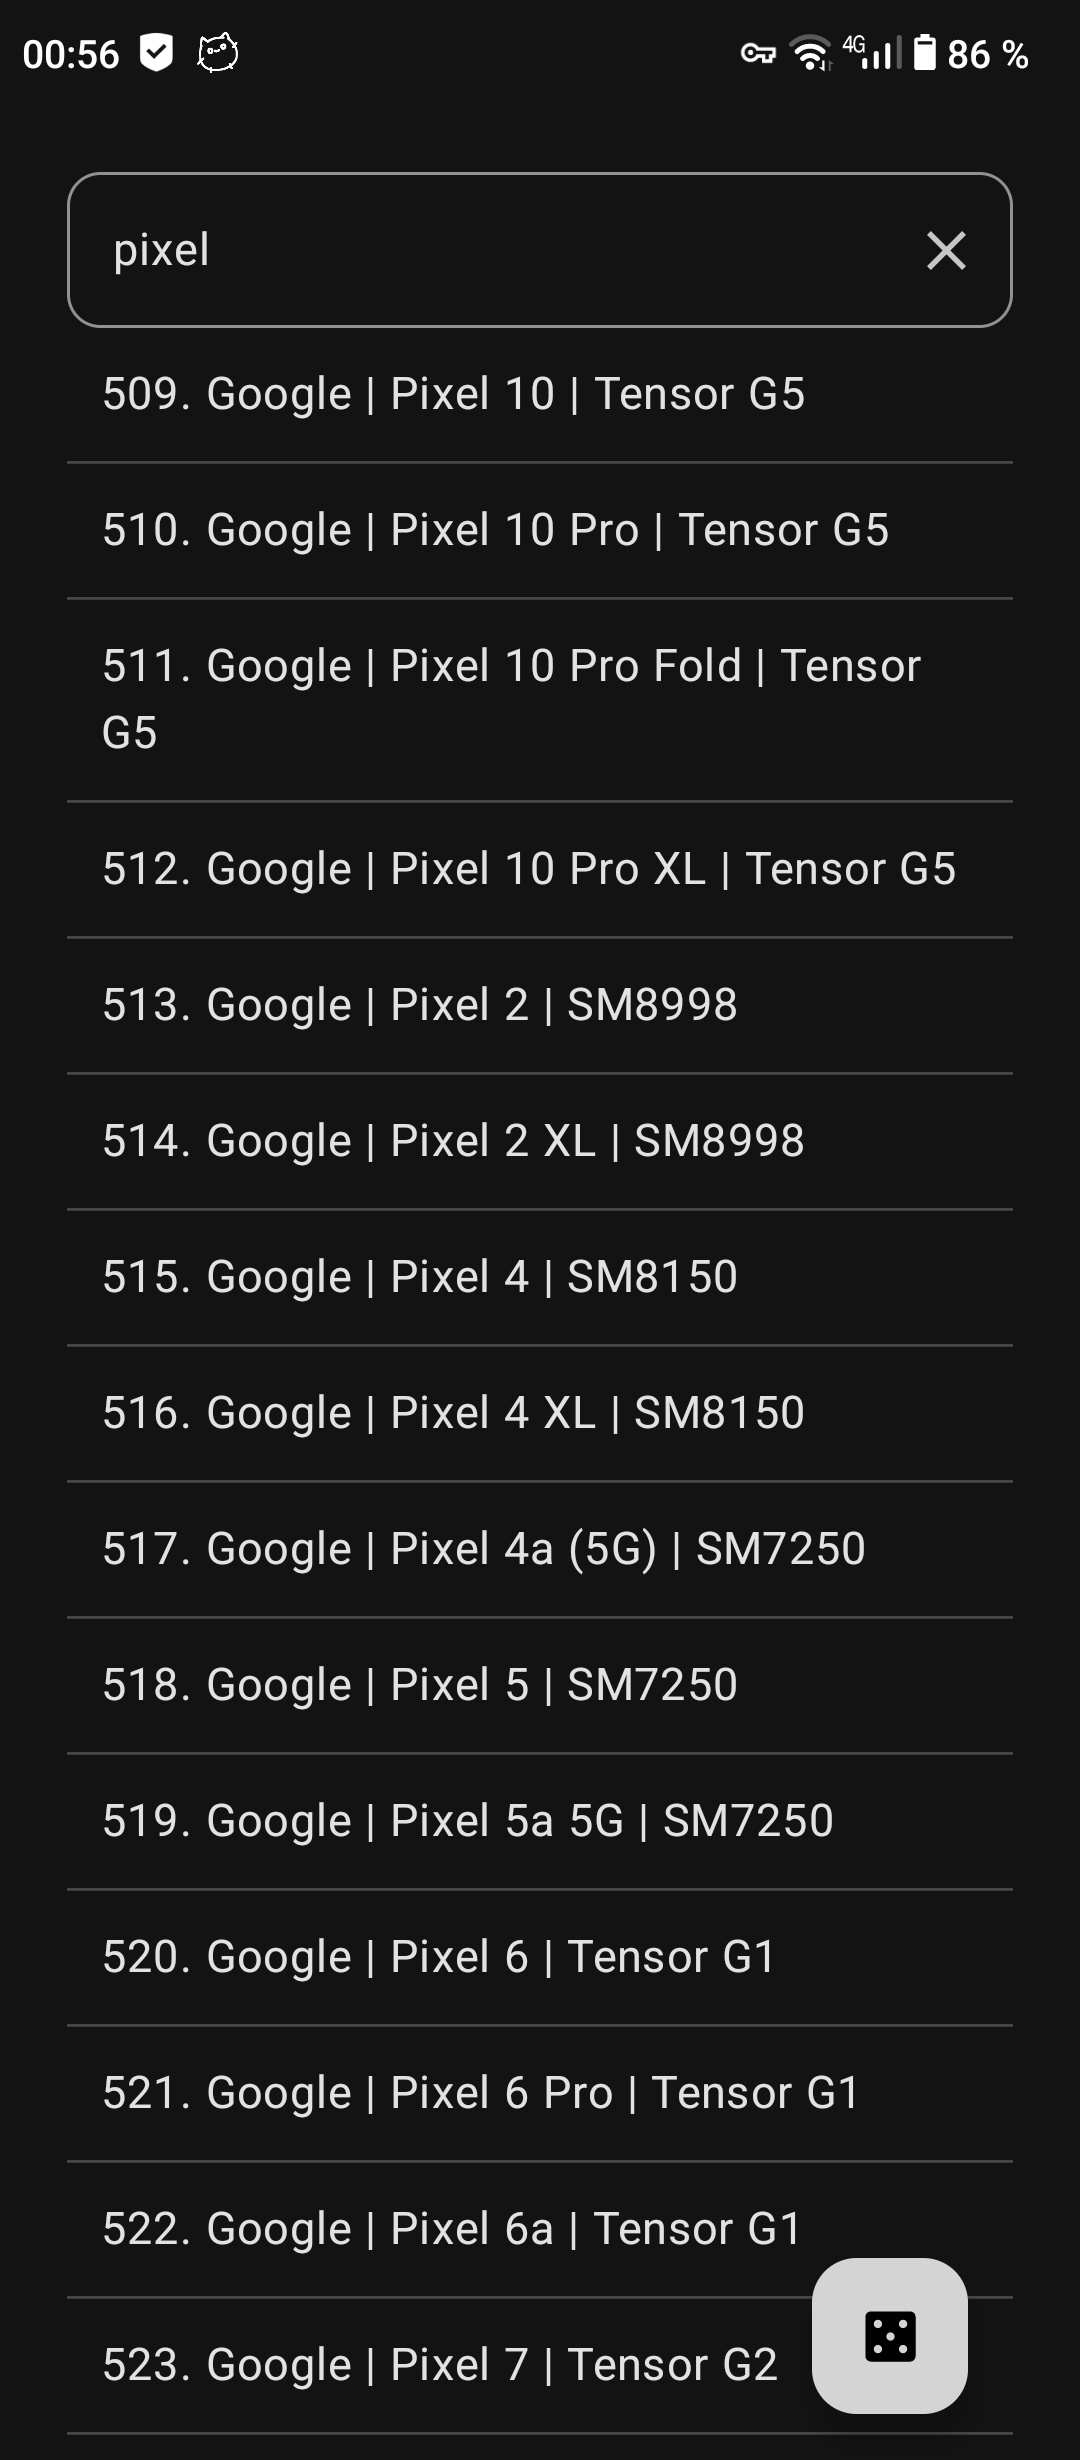
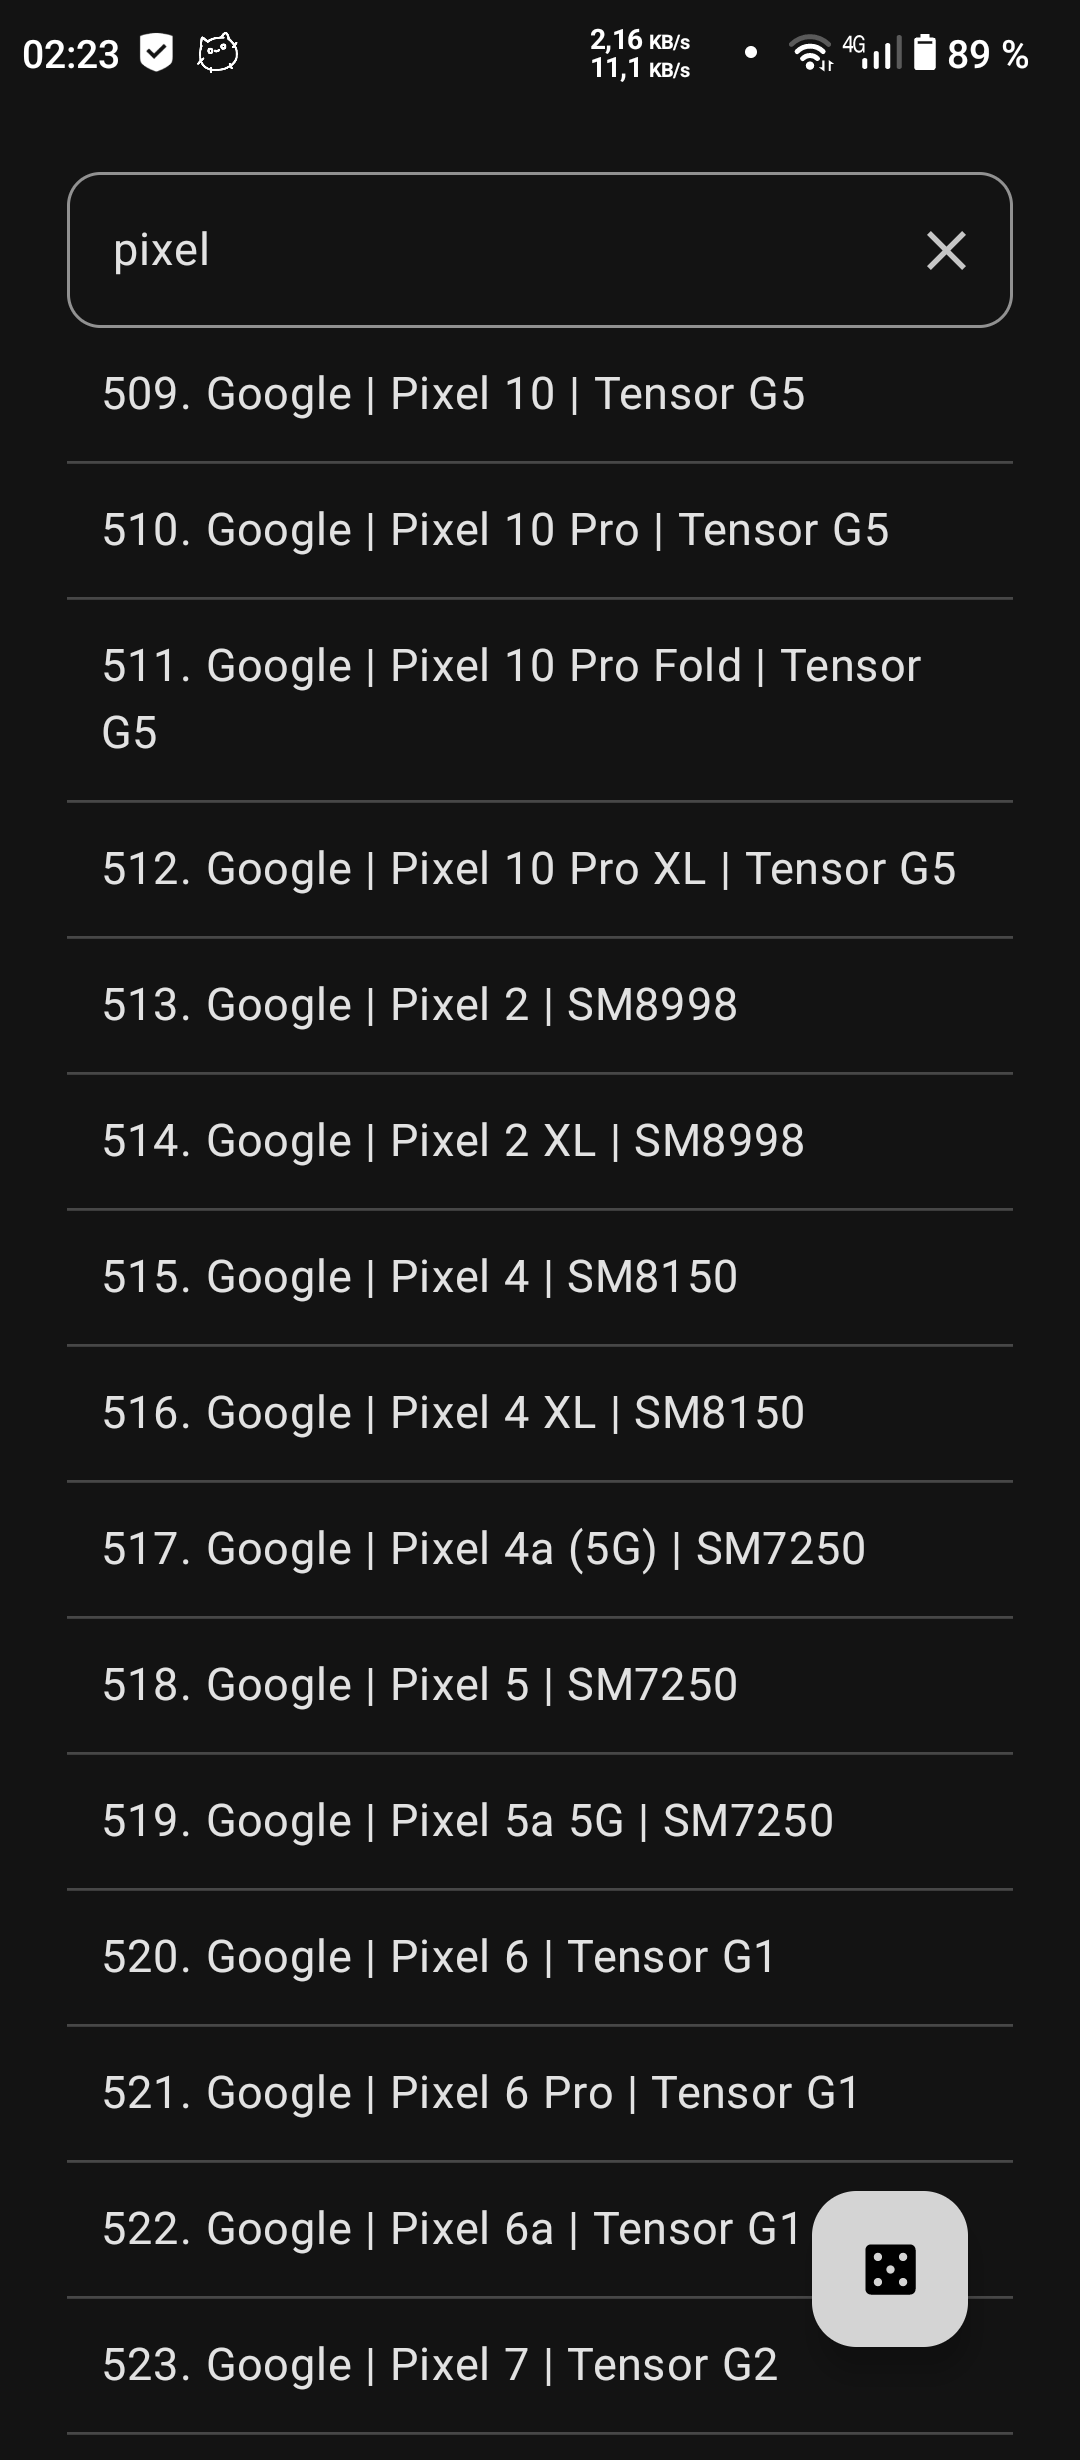
edit readme

diff --git a/README.md b/README.md
@@ -38,6 +38,10 @@ It can also expose the selected profile name over MTP when the Xposed module is 
   <img src="./docs/screenshots/device-info-system.png" width="240" alt="Device Info HW system tab after applying a profile" />
 </p>
 
+<p>
+  <img src="./docs/screenshots/mtp-device-name.png" width="320" alt="Spoofed MTP device name" />>
+</p>
+
 ## Requirements
 
 - Android 14 or newer